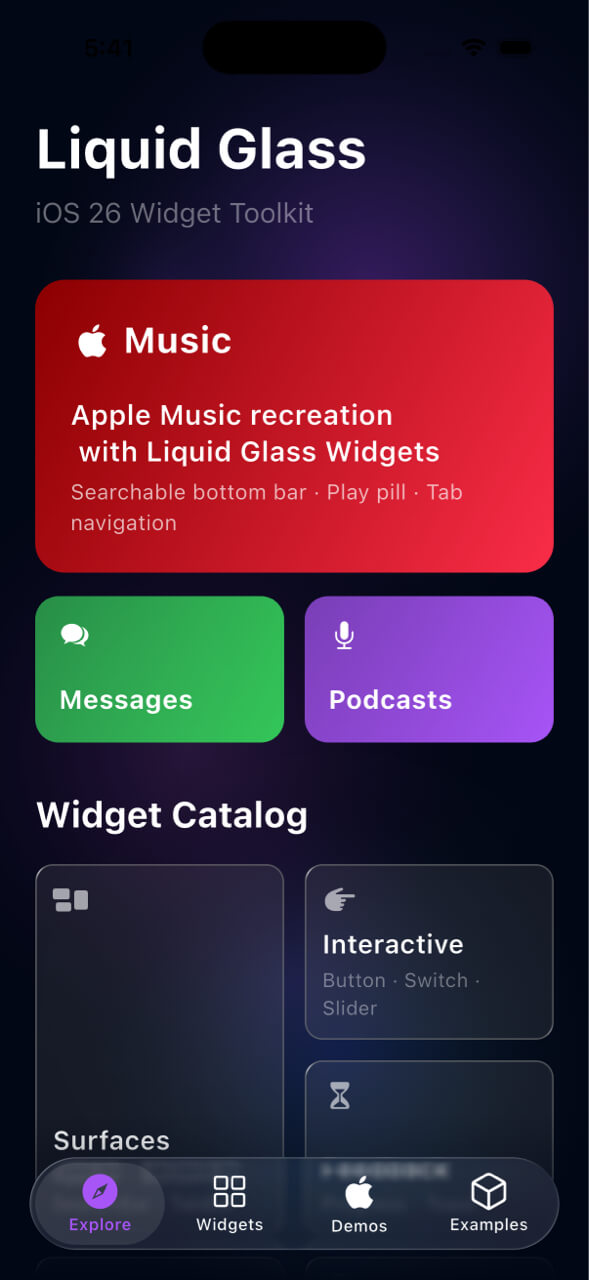
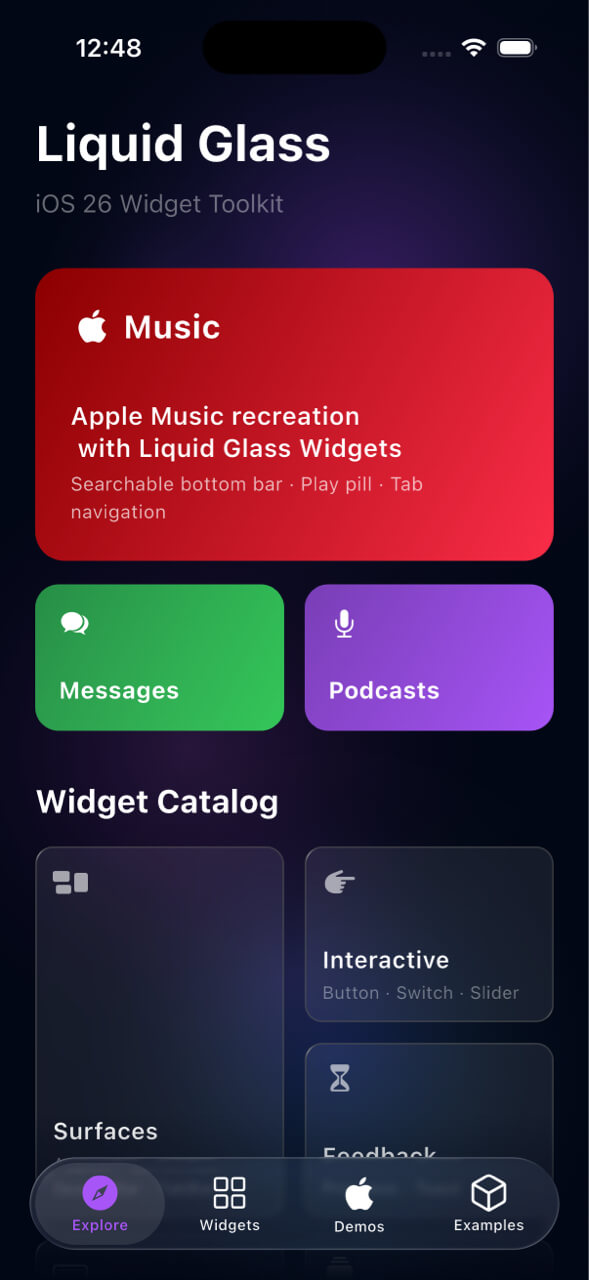
release: 0.14.0
- GlassAppBar redesigned as pure StatelessWidget layout container
  - Removed: settings, quality, useOwnLayer, scrollController, scrollEdgeThreshold
  - Added: buttonSettings (InheritedWidget-based DefaultButtonSettings)
  - Matches iOS 26 navigation bar pattern (glass on buttons, not bar)

- GlassScaffold additions
  - header + headerScrollController + headerFadeDistance (iOS 26 large-title fade)
  - bodyOverlays (floating elements above body, below bars)
  - AnnotatedRegion status bar fix for CupertinoPageRoute
  - Stable ValueKeys on stack children

- GlassIsolationScope.defaultQuality parameter
- DefaultButtonSettings InheritedWidget
- AdaptiveGlass interactive auto-promotion to own layer
- GlassBackdropScope deprecated (no-op, safe to remove)

- Fix: GlassBottomBar extra button z-order (Stack layout, correct paint order)
- Fix: GlassSearchableBottomBar pill z-order
- Fix: mounted guards in gesture handlers (TabDragGestureMixin, TabIndicator)
- Fix: Impeller backdrop visual corruption (per-layer BackdropGroup isolation)

- Example app: all Apple demos migrated to GlassScaffold
- README: GlassScaffold-first setup, updated widget examples
- CHANGELOG: full 0.14.0 documentation

diff --git a/lib/widgets/shared/glass_page.dart b/lib/widgets/shared/glass_page.dart
@@ -422,6 +422,26 @@ class _GlassPageState extends State<GlassPage> {
       );
     }
 
+    // Wrap in AnnotatedRegion so the status bar style sticks even on
+    // routes where a parent Scaffold's own AnnotatedRegion would otherwise
+    // override our imperative SystemChrome.setSystemUIOverlayStyle() call.
+    if (widget.statusBarStyle != GlassStatusBarStyle.none) {
+      final Brightness brightness = MediaQuery.platformBrightnessOf(context);
+      final bool isDark = brightness == Brightness.dark;
+      final bool useLightIcons = switch (widget.statusBarStyle) {
+        GlassStatusBarStyle.light => true,
+        GlassStatusBarStyle.dark => false,
+        GlassStatusBarStyle.auto => isDark,
+        GlassStatusBarStyle.none => false,
+      };
+      content = AnnotatedRegion<SystemUiOverlayStyle>(
+        value: useLightIcons
+            ? SystemUiOverlayStyle.light
+            : SystemUiOverlayStyle.dark,
+        child: content,
+      );
+    }
+
     return content;
   }
 }

diff --git a/lib/widgets/surfaces/glass_scaffold.dart b/lib/widgets/surfaces/glass_scaffold.dart
@@ -484,7 +484,9 @@ class GlassScaffold extends StatelessWidget {
     return GlassPage(
       background: background,
       settings: settings,
-      statusBarStyle: statusBarStyle,
+      // GlassScaffold handles AnnotatedRegion itself (line 476), so tell
+      // GlassPage to skip its own wrap + imperative SystemChrome call.
+      statusBarStyle: GlassStatusBarStyle.none,
       edgeToEdge: edgeToEdge,
       themeOverride: themeOverride,
       enableBackgroundSampling: enableBackgroundSampling,

diff --git a/example/lib/main.dart b/example/lib/main.dart
@@ -88,7 +88,7 @@ class _ShowcaseHomePageState extends State<ShowcaseHomePage> {
   Widget build(BuildContext context) {
     return GlassScaffold(
       background: _buildBackground(),
-      statusBarStyle: GlassStatusBarStyle.dark,
+      statusBarStyle: GlassStatusBarStyle.light,
       settings: RecommendedGlassSettings.standard,
       topEdgeFade: true,
       bottomBar: GlassBottomBar(

diff --git a/test/widgets/surfaces/glass_app_bar_test.dart b/test/widgets/surfaces/glass_app_bar_test.dart
@@ -166,8 +166,7 @@ void main() {
       expect(appBar.shouldFullyObstruct(context), isFalse);
     });
 
-    testWidgets(
-        'shouldFullyObstruct returns true for fully opaque background',
+    testWidgets('shouldFullyObstruct returns true for fully opaque background',
         (tester) async {
       await tester.pumpWidget(
         createTestApp(

diff --git a/example/lib/demos/stretch_test_demo.dart b/example/lib/demos/stretch_test_demo.dart
@@ -53,7 +53,6 @@ class _StretchDemoPageState extends State<StretchTestDemo> {
       ),
       child: Scaffold(
         extendBodyBehindAppBar: true,
-        // backgroundColor: Colors.transparent,
         appBar: GlassAppBar(
           leading: GlassButton(
             quality: GlassQuality.premium,

diff --git a/README.md b/README.md
@@ -23,7 +23,7 @@ https://github.com/user-attachments/assets/2fe28f46-96ad-459d-b816-e6d6001d90de
 - **Just works everywhere** — iOS, Android, macOS, Web, Windows, Linux; rendering path chosen automatically
 - **Adaptive quality** *(experimental)* — `GlassAdaptiveScope` benchmarks the device at startup and adjusts quality in real time: `minimal` on slow hardware, `standard` on mid-range, `premium` on fast devices. Degrades on thermal throttle, recovers when cool
 - **Zero dependencies** — no third-party runtime libraries, just the Flutter SDK
-- **One-line setup** — `LiquidGlassWidgets.wrap(child: myApp)` handles accessibility bridging, adaptive quality, and global theming; use `GlassPage` per screen for automatic backdrop isolation, status bar styling, and background sampling
+- **One-line setup** — `LiquidGlassWidgets.wrap(child: myApp)` handles accessibility bridging, adaptive quality, and global theming; use `GlassScaffold` per screen for automatic backdrop isolation, z-ordering, edge fading, and status bar styling
 - **Gyroscope lighting** — `GlassMotionScope` drives specular highlights from any `Stream<double>`
 - **WCAG-compliant by default** — Reduce Motion and Reduce Transparency are respected automatically; no setup required
 
@@ -92,6 +92,7 @@ Eight focused, self-contained demos — one widget, one file, runnable standalon
 | `searchable_bar_demo.dart` — searchable bar edge cases | `cd example && flutter run -t lib/demos/searchable_bar_demo.dart` |
 | `shape_debug_demo.dart` — GlassButton shapes | `cd example && flutter run -t lib/demos/shape_debug_demo.dart` |
 | `quality_comparison_demo.dart` — premium & standard quality comparison playground | `cd example && flutter run -t lib/demos/quality_comparison_demo.dart` |
+| `nav_bar_patterns_demo.dart` — GlassScaffold layout patterns | `cd example && flutter run -t lib/demos/nav_bar_patterns_demo.dart` |
 
 
 ## Widget Categories
@@ -112,14 +113,14 @@ Eight focused, self-contained demos — one widget, one file, runnable standalon
 `GlassDialog` · `GlassSheet` · `GlassModalSheet` · `showGlassActionSheet` · `GlassMenu` · `GlassMenuItem`
 
 ### Surfaces
-`GlassAppBar` · `GlassBottomBar` · `GlassSearchableBottomBar` · `GlassTabBar` · `GlassSideBar` · `GlassToolbar`
+`GlassScaffold` · `GlassAppBar` · `GlassBottomBar` · `GlassSearchableBottomBar` · `GlassTabBar` · `GlassSideBar` · `GlassToolbar`
 
 
 ## Installation
 
 ```yaml
 dependencies:
-  liquid_glass_widgets: ^0.13.0
+  liquid_glass_widgets: ^0.14.0
 ```
 
 ```bash
@@ -147,14 +148,18 @@ void main() async {
 }
 ```
 
-That's it. Then add any glass widget to your tree — no per-widget configuration needed:
+That's it. Then use `GlassScaffold` on each screen — it handles background, status bar, z-ordering, and edge fading automatically:
 
 ```dart
-Scaffold(
+GlassScaffold(
+  background: Image.asset('assets/wallpaper.jpg', fit: BoxFit.cover),
+  statusBarStyle: GlassStatusBarStyle.auto,
   appBar: GlassAppBar(title: const Text('My App')),
-  body: const Center(child: GlassCard(child: Text('Hello, Glass!'))),
+  body: Center(child: GlassCard(child: Text('Hello, Glass!'))),
 )
 ```
+
+> **Why `GlassScaffold`?** Glass effects refract and blur against whatever is behind them. Without a controlled background, glass surfaces can appear flat, incorrectly tinted, or invisible. `GlassScaffold` wires up the background source, glass rendering layer, and bar isolation automatically — one widget instead of five.
 
 > **Accessibility is on by default.** The library automatically reads the
 > device's Reduce Motion and Reduce Transparency settings — no extra setup
@@ -286,13 +291,13 @@ GlassContainer(
 Enables the full Impeller shader pipeline with texture capture and chromatic aberration. On Skia/Web, automatically falls back to Standard.
 
 ```dart
-GlassAppBar(
+GlassCard(
   quality: GlassQuality.premium,
-  title: const Text('Static header'),
+  child: const Text('Static hero section'),
 )
 ```
 
-> **Use Premium only for static, non-scrolling surfaces** (app bars, bottom bars, hero sections). It may not render correctly inside `ListView` or `CustomScrollView` on Impeller.
+> **Use Premium only for static, non-scrolling surfaces** (hero sections, feature cards). It may not render correctly inside `ListView` or `CustomScrollView` on Impeller. `GlassScaffold` automatically promotes app bars and bottom bars to premium quality via `GlassIsolationScope`.
 
 ### Minimal — Shader-Free
 
@@ -312,9 +317,55 @@ Two ideal use cases:
 > **Theme shorthand**: `GlassThemeVariant.minimal` applies `minimal` quality globally via `GlassThemeData`.
 
 
+## GlassScaffold
+
+`GlassScaffold` is the recommended way to build any screen that uses glass surfaces. It replaces the manual assembly of `GlassPage` + `Scaffold` + `GlassScrollEdgeEffect` + `Stack` with a single widget:
+
+```dart
+GlassScaffold(
+  background: Image.asset('assets/wallpaper.jpg', fit: BoxFit.cover),
+  statusBarStyle: GlassStatusBarStyle.light,
+  appBar: GlassAppBar(
+    title: const Text('Messages'),
+    trailing: GlassButton(
+      icon: const Icon(CupertinoIcons.compose),
+      onTap: () {},
+    ),
+  ),
+  bottomBar: GlassBottomBar(
+    selectedIndex: 0,
+    onTabSelected: (_) {},
+    tabs: const [
+      GlassBottomBarTab(icon: Icon(Icons.home), label: 'Home'),
+      GlassBottomBarTab(icon: Icon(Icons.search), label: 'Search'),
+    ],
+  ),
+  body: CustomScrollView(
+    slivers: [...],
+  ),
+)
+```
+
+| What it handles | Without `GlassScaffold` |
+|---|---|
+| Background + glass layer | Must wrap in `GlassPage` + set `scaffoldBackgroundColor: transparent` |
+| Z-ordering (bars above body) | Must build a manual `Stack` with correct paint order |
+| Edge fading | Must add `GlassScrollEdgeEffect` and calculate fade heights |
+| Safe-area padding | Must calculate top/bottom padding for app bar and bottom bar |
+| Bar isolation | Must wrap bars in `GlassIsolationScope` manually |
+| Status bar icons | Must call `SystemChrome.setSystemUIOverlayStyle` and restore it |
+
+> See `example/lib/demos/nav_bar_patterns_demo.dart` for complete `GlassScaffold` usage patterns.
+
+---
+
 ## GlassPage
 
-`GlassPage` is the recommended root widget for any screen that uses glass surfaces. It eliminates several common setup mistakes in one widget:
+`GlassPage` is the lower-level building block that `GlassScaffold` uses internally. Use it directly when you need full manual control over your layout — custom `Stack` ordering, non-standard bar placements, or screens without a traditional scaffold structure.
+
+> **For most apps, `GlassScaffold` is simpler** — it handles background, bars, edge fading, and isolation automatically. Use `GlassPage` only when you need to build a custom layout that `GlassScaffold` doesn't support.
+
+`GlassPage` eliminates several common setup mistakes in one widget:
 
 ```dart
 // Minimum — just wrap your Scaffold, GlassPage handles everything else:

diff --git a/CHANGELOG.md b/CHANGELOG.md
@@ -90,9 +90,7 @@ GlassScaffold(
 
 All conditional children (header, app bar, bottom bar) now have explicit `ValueKey`s so Flutter tracks them by identity rather than position. This prevents unmount/remount cycles (and loss of animation state) when toggling the header on and off.
 
-### Top fade height calculation fix
-
-The top fade height now correctly omits `appBarHeight` when no `appBar` is provided — previously it always included the app bar height, creating excess fading below the status bar.
+> See `example/lib/demos/nav_bar_patterns_demo.dart` for complete `GlassScaffold` usage patterns.
 
 ## ✨ New — `GlassIsolationScope.defaultQuality`
 
@@ -145,17 +143,6 @@ All four Apple demo apps have been migrated from manual `Scaffold` + `Stack` + `
 ### Category pages re-indented
 All 6 showcase category pages (containers, feedback, input, interactive, overlays, surfaces) have been re-indented for consistency. No functional changes.
 
-### Keypad lock screen demo removed
-The `keypad_lock_screen_demo.dart` has been deleted (466 lines). This demo was a 0.13.0 addition that demonstrated `persistPressOnDrag: false`; the pattern is now covered in other demos.
-
-## 🔄 Changed — Minor formatting and doc updates
-
-- `GlassInteractionSettings` — minor formatting cleanup
-- `GlassChip` — formatting cleanup
-- `GlassMenuItem` / `GlassMenuInternal` — formatting cleanup
-- `GlassScrollEdgeEffect` — minor cleanup
-- `stretch.dart` — formatting cleanup
-- Docs: Replaced `GlassAppBar` references with `GlassBottomBar` in `resolveQuality` table and examples
 
 ## 🐛 Fix — Impeller backdrop visual corruption
 
@@ -170,17 +157,6 @@ Fixed a critical rendering issue where `GlassAppBar` buttons would lose their gl
 `GlassBackdropScope` is now a no-op and can be safely removed from your widget tree. Each glass layer manages its own backdrop isolation automatically. `GlassPage` continues to work exactly as before — no migration needed for apps using `GlassPage`.
 
 Apps using `GlassBackdropScope` directly will see a deprecation warning but will compile and run without issues. Remove the widget at your convenience; it will be deleted in 1.0.0.
-
-## 🐛 Fix — `GlassScrollEdgeEffect` crash in profile/release mode
-
-Fixed a `LateInitializationError` crash when running in `--profile` or `--release` mode. `RenderObject.debugNeedsPaint` is a `late` getter only initialized in debug builds — unguarded calls in `GlassScrollEdgeEffect._captureBackground()` and `LightweightLiquidGlass._handleTick()` would crash immediately on app startup. Both have been replaced with assert-guarded local variables, and the synchronous `toImageSync()` pipeline in `GlassScrollEdgeEffect` was upgraded to the async `toImage()` pipeline to safely support release mode execution.
-
-## 🧪 Tests — 1963 passing
-
-- **New**: 2 tests for `GlassIsolationScope.defaultQuality` interaction with `resolveQuality` (bar quality regression prevention).
-- **Updated**: `GlassAppBar` tests stripped down to match the new `StatelessWidget` API — scroll-driven glass tests removed, replaced with a simple "renders as StatelessWidget" test.
-- **Updated**: `GlassInteractionBehavior` test: tab-tap target changed from 'Search' (index 1) to 'Profile' (index 2) to avoid text conflict with the collapsed search pill `GlassButton`.
-- `dart analyze lib/`: **No issues found.**
 
 ---
 
@@ -236,7 +212,24 @@ A new structural widget that coordinates interactions between `GlassAppBar`, `Gl
 
 ### `GlassInteractionSettings` Theme
 
-Added a dedicated theme extension to globally configure interaction physics (glow, scale, bounce) across all glass widgets. You can now ensure a consistent interaction feel across your entire app without having to pass `interactionBehavior` and glow parameters to every single widget manually.
+Added a dedicated theme extension to globally configure interaction physics across all glass widgets — stretch, press scale, drag resistance, anchor stretch, and anchor stretch fine-tuning. No more passing interaction parameters to every widget manually.
+
+```dart
+GlassThemeData(
+  interaction: GlassInteractionSettings(
+    stretch: 0.2,              // subtler drag-following globally
+    interactionScale: 1.03,    // less scale-up on press
+    resistance: 0.01,          // drag damping factor
+    anchorStretch: true,       // iOS 26 rubber-band from anchor
+    anchorStretchSettings: AnchorStretchSettings(
+      intensity: 0.8,
+      squash: 0.15,
+    ),
+  ),
+)
+```
+
+Set `stretch: 0.0` to disable drag-following app-wide while keeping press-scale. Individual widgets can still override any value.
 
 ## 🐛 Fixes & Improvements
 
